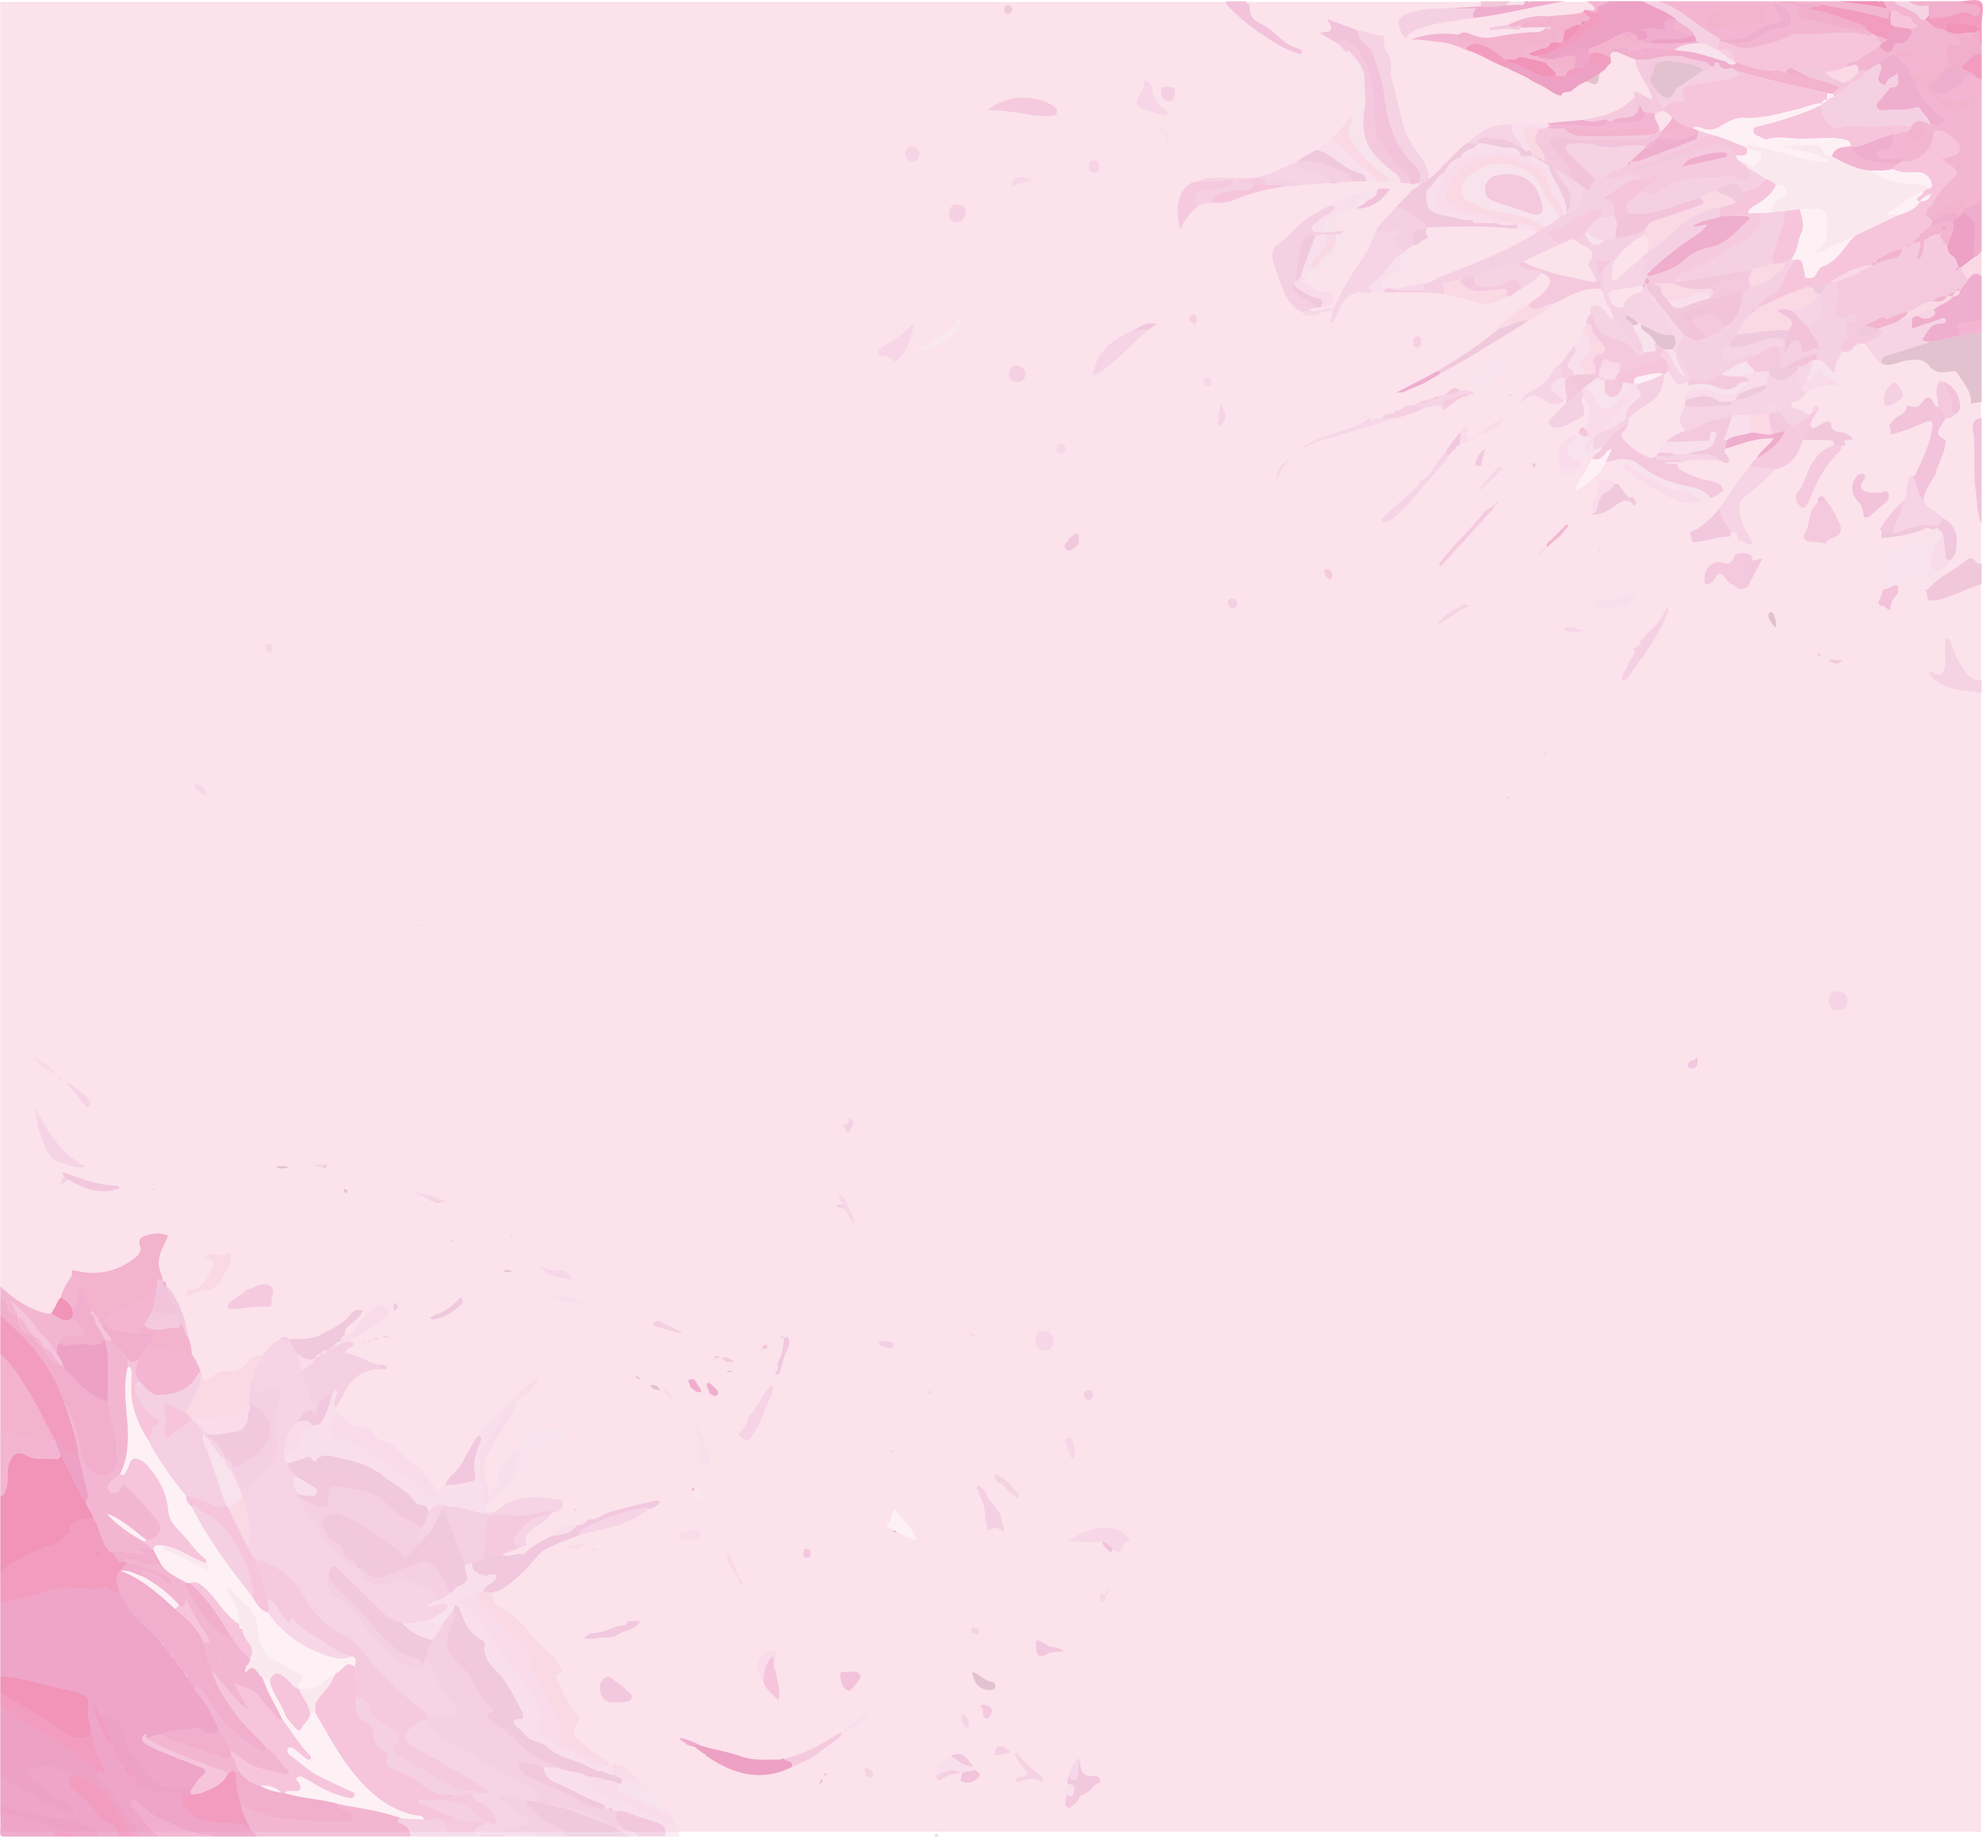
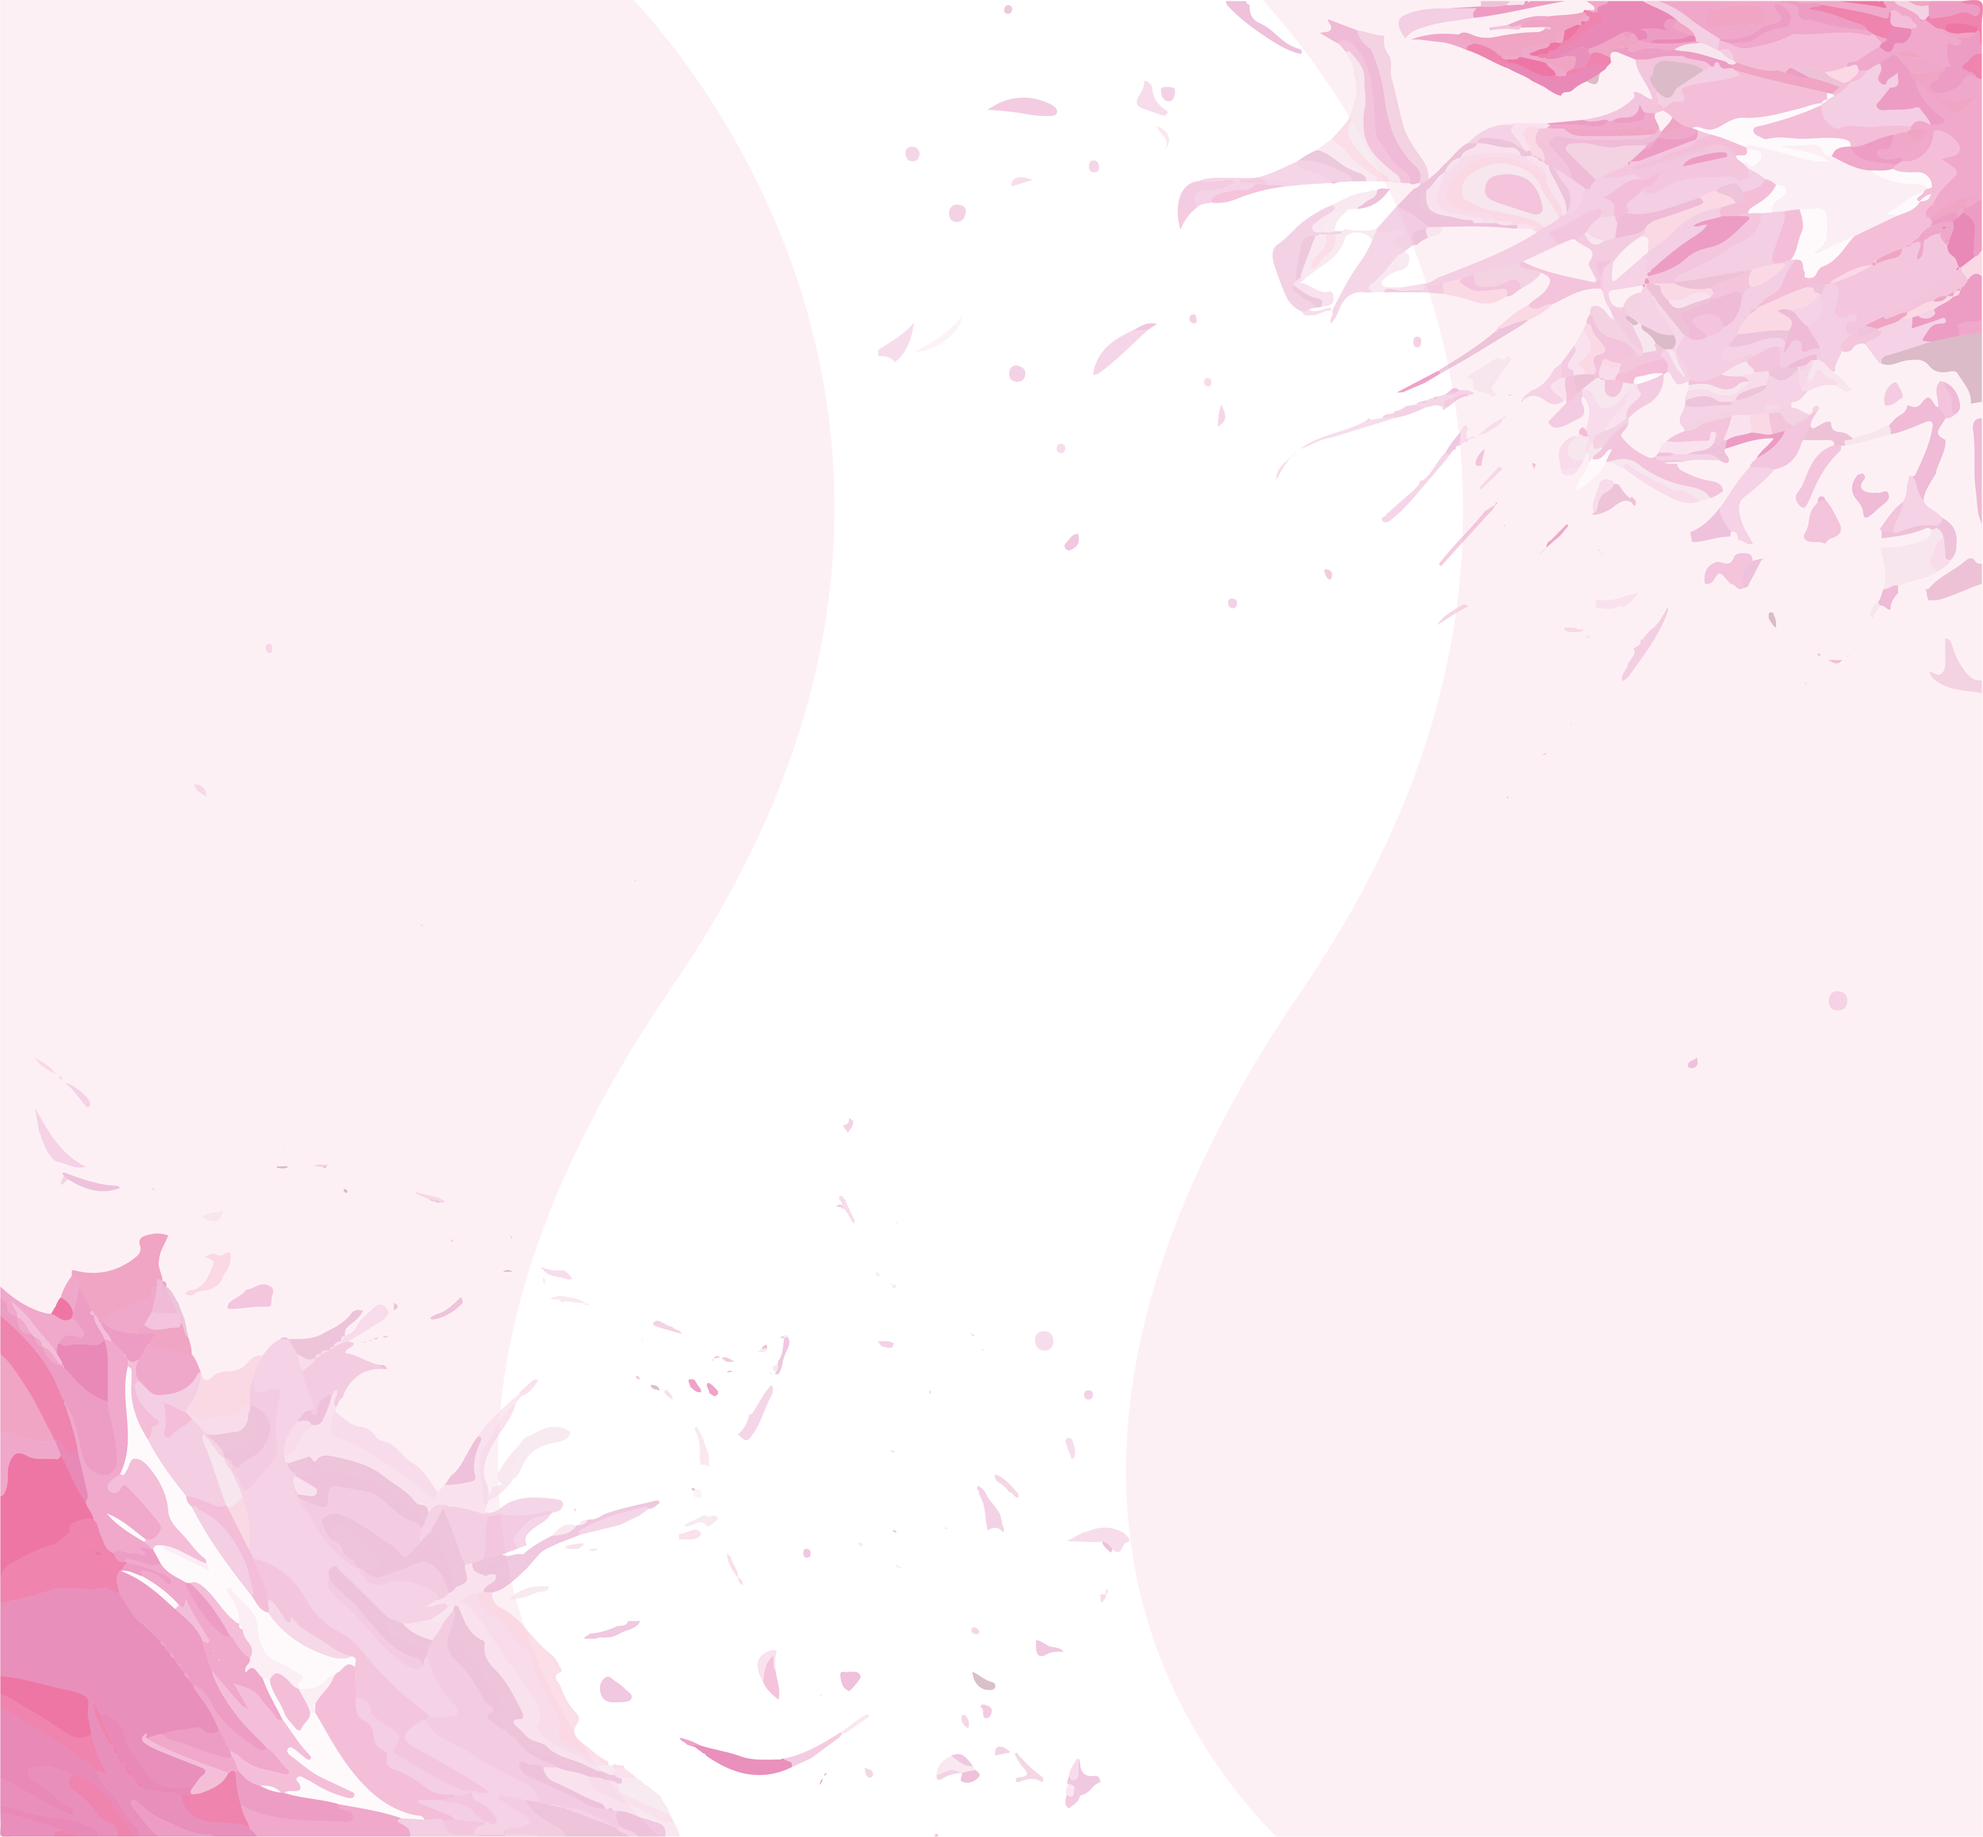
Colors, text, bgs

diff --git a/src/components/Kine/index.jsx b/src/components/Kine/index.jsx
@@ -1,5 +1,5 @@
 import React from 'react';
-import kinexBack from '../../assets/images/kineraFund_kinex.png';
+import kinexBack from '../../assets/images/kineraFund_kinex_.png';
 import tokenDistributionChart from '../../assets/images/kinex_token_distribution.png'; // Import the chart image
 import './kine.css';
 
@@ -9,7 +9,7 @@ const Kine = () => {
             className="background-overlay4 w-full min-h-[60vh] bg-center bg-cover bg-no-repeat text-black bg-fixed py-20"
             id="kinex"
             style={{
-                backgroundImage: `url(${kinexBack})`, backgroundSize: '50%'
+                backgroundImage: `url(${kinexBack})`, backgroundSize: '100%'
             }}
         >
             <h1 className="-mt-12 sm:text-[70px] text-[38px] font-bold text-center text-[#3c1e11] py-10" data-aos="">KINEX</h1>

diff --git a/src/components/Funding/funding.css b/src/components/Funding/funding.css
@@ -1,5 +1,5 @@
 .background-overlayFunding {
-    background-color: #fce1eb; /* Define a cor de fundo */
+    background-color: #fdeff4; /* Define a cor de fundo */
     position: relative;
 }
 
